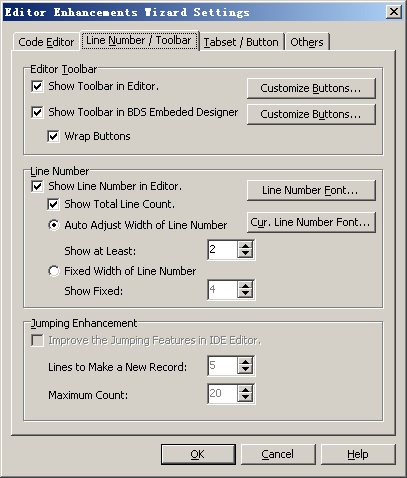
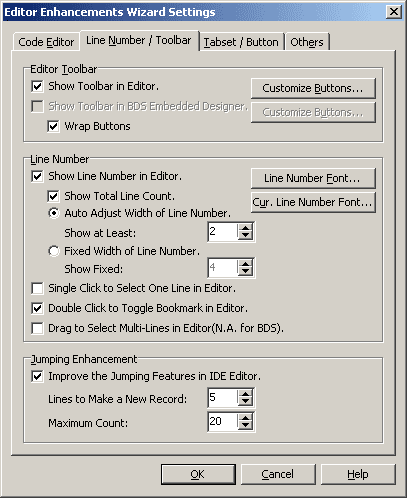
* [Help Files] Update Help Files for the New Options in Editor Enhancement.

Changed region(s): [[0.0, 0.0, 0.973, 0.9958], [0.9435, 0.0, 1.0, 0.0586]]

diff --git a/Help/CnWizards_ENU/srcedtenh/srcedtgutter.htm b/Help/CnWizards_ENU/srcedtenh/srcedtgutter.htm
@@ -76,6 +76,15 @@ lines count and displayed lines when switching to each file.</p>
   <li>
 <p class="text"><b>Show Fixed</b>: The characters number of using fixed width.</p>
   </li>
+  <li>
+<p class="text"><b>Single Click to Select One Line in Editor</b>: If checked, the line in editor will be selected when clicking a line number.</p>
+  </li>
+  <li>
+<p class="text"><b>Double Click to Toggle Bookmark in Editor</b>: If checked, double clicking a line number will toggle the bookmark on this line.</p>
+  </li>
+  <li>
+<p class="text"><b>Drag to Select Multi-Lines in Editor</b>: If checked, multi-lines will be selected when dragging at line number. Note: This feature is only available in Delphi 7 or below, for BDS already has this feature.</p>
+  </li>
 </ul>
 <p class="text">&nbsp;</p>
 <p class="title" align="left">Links<p class="text" align="left">
